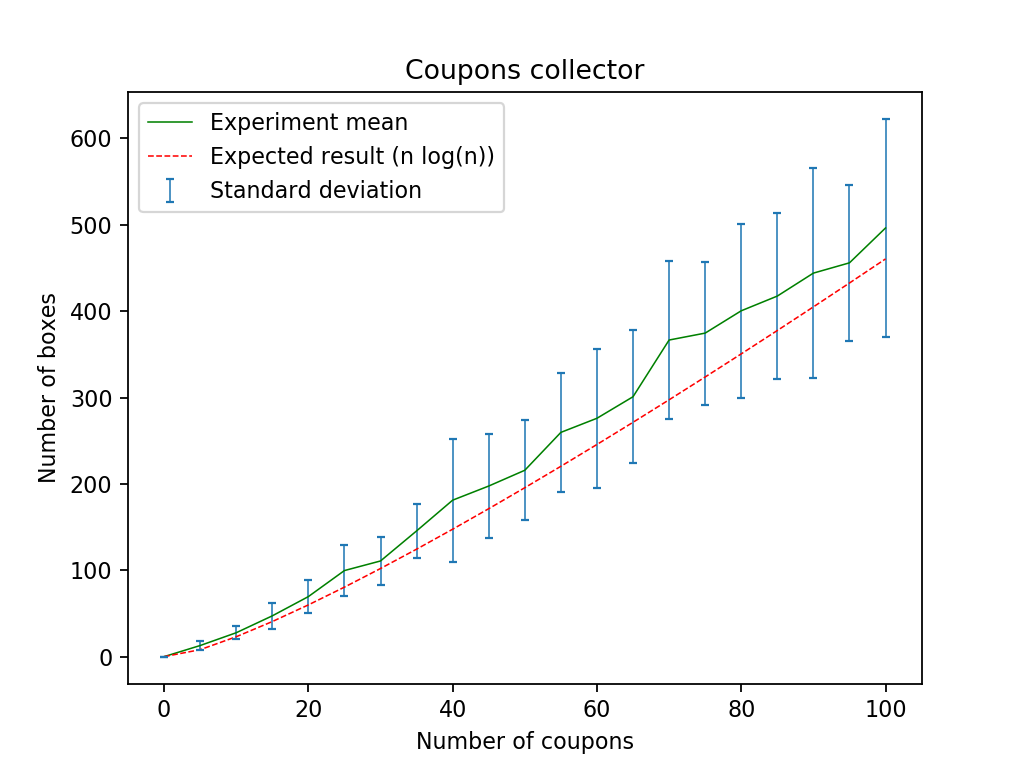
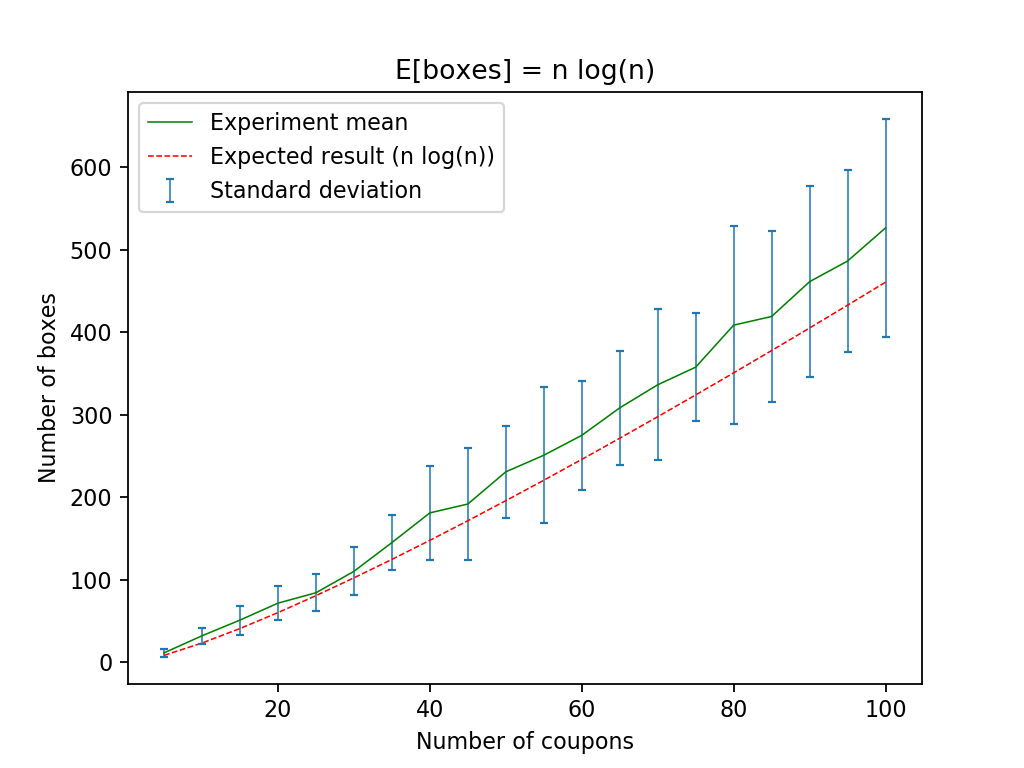
Adding probability of expected steps

diff --git a/Coupon Collector Simulation/coupon_collector.py b/Coupon Collector Simulation/coupon_collector.py
@@ -1,6 +1,6 @@
 import numpy as np
 import math
-from utils import plot_coupon_collector_results
+from utils import plot_coupon_collector_results, plot_coupon_collector_probability
 import time
 import argparse
 
@@ -22,7 +22,7 @@ evaluation_step = args.step
 
 start = time.time()
 
-coupons_history = range(0, n_coupons + evaluation_step - 1, evaluation_step)
+coupons_history = [step for step in range(evaluation_step, n_coupons + evaluation_step - 1, evaluation_step)]
 
 boxes_history = []
 
@@ -57,10 +57,34 @@ end = time.time()
 
 print('Python script:[Coupons:{}][Experiments:{}][Step:{}][Time:{:.5f}]'.format(n_coupons, n_repetitions, evaluation_step, end - start))
 
+boxes_history = np.array(boxes_history)
 
+# Mean calculation
 mean_history = np.mean(boxes_history, axis=0)
+
+# Standard deviation calculation
 error_history = np.std(boxes_history, axis=0)
+
+# Expected time
 expected_history = [coupons * math.log(coupons + 1e-15) for coupons in coupons_history]
+
+
+probability_history = {}
+
+# Factors compared in tests 
+linear_factors = [factor for factor in range(-3, 7, 1)]
+
+# Count times that execution steps were lower than expected and calculates the probability
+for idx, coupons in enumerate(coupons_history):
+  execution_probabilities = [ ( boxes_history[:,idx] <= coupons * (math.log(coupons) + factor) ).sum() / n_repetitions for factor in linear_factors]
+  probability_history[coupons] = execution_probabilities
+
+figure_prob = plot_coupon_collector_probability(
+    factors=linear_factors,
+    probabilities=probability_history
+)
+
+figure_prob.savefig('python_probability_results.png')
 
 figure = plot_coupon_collector_results(
     coupons=coupons_history, 

diff --git a/Coupon Collector Simulation/utils.py b/Coupon Collector Simulation/utils.py
@@ -6,7 +6,7 @@ def plot_coupon_collector_results(coupons, mean, expected, std_dev=None):
 
   ax_num_coupons = figure.add_subplot(111)
     
-  ax_num_coupons.set_title('Coupons collector')
+  ax_num_coupons.set_title('E[boxes] = n log(n)')
   ax_num_coupons.set_xlabel('Number of coupons')
   ax_num_coupons.set_ylabel('Number of boxes')
 
@@ -18,5 +18,22 @@ def plot_coupon_collector_results(coupons, mean, expected, std_dev=None):
 
   ax_num_coupons.legend(loc='upper left')
 
+
+  return figure
+
+
+def plot_coupon_collector_probability(factors, probabilities):
+
+  figure = plt.figure(dpi=160, facecolor='w', edgecolor='k')
+
+  ax_prob_coupons = figure.add_subplot(111)
+    
+  ax_prob_coupons.set_title('Pr(steps ≤ n log(n) + cn)')
+  ax_prob_coupons.set_xlabel('Factor (c)')
+  ax_prob_coupons.set_ylabel('Probability')
+
+
+  for key in probabilities.keys():
+    ax_prob_coupons.plot(factors, probabilities[key], label='coupons={}'.format(key), linewidth=0.7)
 
   return figure
